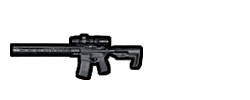
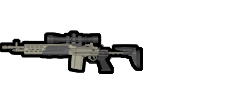
lvoas 이미지 교체, 일부 총기 반동 너프

Changed region(s): [[0.0, 0.3, 0.588, 0.81]]

diff --git a/ui_manager/shop_manager.py b/ui_manager/shop_manager.py
@@ -102,23 +102,23 @@ def draw_items(self):
             self.image_m500.draw(self.button_x[3] - 63, self.button_y[0], 400, 200)
             self.image_qhand.draw(self.button_x[4] - 70, self.button_y[0], 300, 150)
 
-            self.image_aks74.draw(self.button_x[0] - 35, self.button_y[1], 240, 140)
-            self.image_ump.draw(self.button_x[1] - 30, self.button_y[1], 240, 140)
-            self.image_vector.draw(self.button_x[2] - 30, self.button_y[1], 240, 140)
-            self.image_thompson.draw(self.button_x[3] - 35, self.button_y[1], 250, 140)
-            self.image_p90.draw(self.button_x[4] - 30, self.button_y[1], 240, 140)
+            self.image_aks74.draw(self.button_x[0] - 35, self.button_y[1], 240, 120)
+            self.image_ump.draw(self.button_x[1] - 30, self.button_y[1], 240, 120)
+            self.image_vector.draw(self.button_x[2] - 30, self.button_y[1], 240, 120)
+            self.image_thompson.draw(self.button_x[3] - 35, self.button_y[1], 250, 120)
+            self.image_p90.draw(self.button_x[4] - 30, self.button_y[1], 240, 120)
 
-            self.image_scar.draw(self.button_x[0] - 40, self.button_y[2], 240, 140)
-            self.image_m16.draw(self.button_x[1] - 40, self.button_y[2], 240, 140)
-            self.image_mp44.draw(self.button_x[2] - 40, self.button_y[2], 240, 140)
-            self.image_aug.draw(self.button_x[3] - 35, self.button_y[2], 240, 140)
-            self.image_groza.draw(self.button_x[4] - 30, self.button_y[2], 240, 140)
+            self.image_scar.draw(self.button_x[0] - 40, self.button_y[2], 240, 120)
+            self.image_m16.draw(self.button_x[1] - 40, self.button_y[2], 240, 120)
+            self.image_mp44.draw(self.button_x[2] - 40, self.button_y[2], 240, 120)
+            self.image_aug.draw(self.button_x[3] - 35, self.button_y[2], 240, 120)
+            self.image_groza.draw(self.button_x[4] - 30, self.button_y[2], 240, 120)
 
             self.image_m1.draw(self.button_x[0] - 45, self.button_y[3], 250, 100)
             self.image_win.draw(self.button_x[1] - 52, self.button_y[3], 250, 75)
             self.image_mini14.draw(self.button_x[2] - 35, self.button_y[3], 200, 100)
             self.image_fal.draw(self.button_x[3] - 47, self.button_y[3], 250, 100)
-            self.image_lvoas.draw(self.button_x[4] - 47, self.button_y[3], 250, 100)
+            self.image_lvoas.draw(self.button_x[4] - 47, self.button_y[3], 230, 90)
 
         elif self.page == 2:
             self.image_awp.draw(self.button_x[0] - 50, self.button_y[0], 240, 90)

diff --git a/class_manager/weapon_manager/flame_output.py b/class_manager/weapon_manager/flame_output.py
@@ -13,8 +13,8 @@ def draw_flame(weapon):
             y = weapon.p.wy + 5 + math.sin(weapon.deg) * 200
 
         elif weapon.gun == 'FAL' or weapon.gun == 'LVOAS':
-            x = weapon.p.wx + math.cos(weapon.deg) * 200
-            y = weapon.p.wy + math.sin(weapon.deg) * 200
+            x = weapon.p.wx + math.cos(weapon.deg) * 210
+            y = weapon.p.wy + math.sin(weapon.deg) * 210
 
         elif weapon.gun == 'WIN' or weapon.gun == 'AWP':
             x = weapon.p.wx + math.cos(weapon.deg) * 230
@@ -32,11 +32,11 @@ def draw_flame(weapon):
             x = weapon.p.wx + math.cos(weapon.deg) * 150
             y = weapon.p.wy - 5 + math.sin(weapon.deg) * 150
 
-        if weapon.gun_type == 'pistol':
+        elif weapon.gun_type == 'pistol':
             if weapon.gun == 'QHAND':
                 if weapon.fire_pos == 'in':
-                    x = weapon.p.wx + math.cos(weapon.deg) * 160
-                    y = weapon.p.wy + math.sin(weapon.deg) * 160
+                    x = weapon.p.wx + math.cos(weapon.deg) * 150
+                    y = weapon.p.wy + math.sin(weapon.deg) * 150
                 else:
                     x = weapon.p.wx + math.cos(weapon.deg) * 200
                     y = weapon.p.wy + math.sin(weapon.deg) * 200

diff --git a/class_manager/target_manager.py b/class_manager/target_manager.py
@@ -164,7 +164,7 @@ def update_target(t):
     elif t.weapon.gun == 'MINI14':
         t.dis2 = t.dis / 55
         if t.weapon.shoot:
-            t.recoil += 60
+            t.recoil += 65
 
     elif t.weapon.gun == 'FAL':
         t.dis2 = t.dis / 55
@@ -174,7 +174,7 @@ def update_target(t):
     elif t.weapon.gun == 'LVOAS':
         t.dis2 = t.dis / 55
         if t.weapon.shoot:
-            t.recoil += 25
+            t.recoil += 35
 
     elif t.weapon.gun == 'AWP':
         t.dis2 = 0
